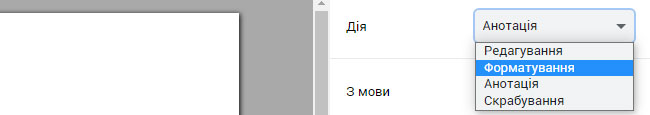
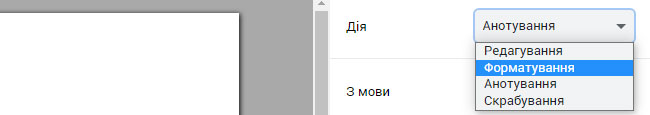
Finished Ukrainian user guide (issue #196). Fixed Ukrainian UI text.

Changed region(s): [[0.7692, 0.1826, 0.8615, 0.287], [0.7692, 0.6783, 0.8615, 0.7826], [0.8, 0.6261, 0.8308, 0.6522]]

diff --git a/_locales/uk/user-guide.html b/_locales/uk/user-guide.html
@@ -11,13 +11,13 @@
     <p><img src="https://raw.githubusercontent.com/chung-leong/conradish-x/development/doc/img/uk/capture-2.jpg" alt="Pop-up menu"></p>
     <p>Друкована версія відкриється в новій вкладці браузера:</p>
     <p><img src="https://raw.githubusercontent.com/chung-leong/conradish-x/development/doc/img/uk/document-1.jpg" alt="Print version"></p>
-    <h2>Коментуюча стаття</h2>
+    <h2>Анотування стаття</h2>
     <h3>Додавання визначення</h3>
-    <p>Виберіть термін, для якого потрібно дати визначення. Під ним з’явиться спливаюче меню. Виберіть <b>Додати визначення</b>:</p>
+    <p>Виберіть слово, для якого потрібно дати визначення. Під ним з’явиться спливаюче меню. Виберіть <b>Додати визначення</b>:</p>
     <p><img src="https://raw.githubusercontent.com/chung-leong/conradish-x/development/doc/img/uk/annotate-1.jpg" alt="Annotation menu"></p>
     <p>Якщо мова <b>На мову</b>, указана на бічній панелі, відрізняється від мови <b>З мови</b>, Конрадіш шукатиме визначення в Google Translate і автоматично вставлятиме його як виноску:</p>
     <p><img src="https://raw.githubusercontent.com/chung-leong/conradish-x/development/doc/img/uk/footnote-1.jpg" alt="Footnote"></p>
-    <p>Якщо мова <b>На мову</b> збігається з мовою <b>З мови</b> або вибрано «Жодну», вам потрібно буде ввести визначення самостійно.</p>
+    <p>Якщо мова <b>На мову</b> збігається з мовою <b>З мови</b> або вибрано «Жодну», вам потрібно буде ввести визначення самі.</p>
     <p><img src="https://raw.githubusercontent.com/chung-leong/conradish-x/development/doc/img/uk/footnote-2.jpg" alt="Footnote"></p>
     <p>Ви можете скасувати результат, натиснувши <b>Ctrl-Z</b> на клавіатурі.</p>
     <h3>Додавання перекладу/пояснення</h3>
@@ -26,10 +26,10 @@
     <p>Перекладене речення з’явиться у нижньому колонтитулі сторінки:</p>
     <p><img src="https://raw.githubusercontent.com/chung-leong/conradish-x/development/doc/img/uk/footnote-3.jpg" alt="Footnote"></p>
     <p>Функція <b>Додати переклад</b> відрізняється від <b>Додати визначення</b> лише тим, що вихідний текст пропускається у виносці.</p>
-    <p>І <b>Додати визначення</b>, і <b>Додати переклад</b> з'являться в меню, якщо вибрано більше ніж одне слово (але менше 8).</p>
+    <p>І <b>Додати визначення</b>, і <b>Додати переклад</b> з'являться в меню, якщо вибрано більше ніж одне слово (а менше 8).</p>
     <p>Натомість у меню з’явиться <b>Додати пояснення</b>, якщо переклад не відбудеться (мова <b>На мову</b> така сама, як мова <b>З мови</b>, або «Жодну» вибрано).</p>
-    <h3>Вибір альтернативного перекладу</h3>
-    <p>Щоб вибрати альтернативний переклад, клацніть частину визначення виноски та виберіть у спливаючому меню:</p>
+    <h3>Вибирання альтернативного перекладу</h3>
+    <p>Щоб вибрати альтернативний переклад, натисніть визначення виноски та виберіть у спливаючому меню:</p>
     <p><img src="https://raw.githubusercontent.com/chung-leong/conradish-x/development/doc/img/uk/footnote-5.jpg" alt="Footnote"></p>
     <h3>Видалення виносок</h3>
     <p>Щоб видалити виноску, просто видаліть відповідний номер виноски:</p>
@@ -37,7 +37,7 @@
     <p>Або видаліть виноску:</p>
     <p><img src="https://raw.githubusercontent.com/chung-leong/conradish-x/development/doc/img/uk/footnote-4.jpg" alt="Footnote"></p>
     <h2>Редагування статті</h2>
-    <p>Ви можете вносити зміни в статтю одночасно з анотацією. Однак спливаюче меню, яке з’являється щоразу, коли ви вибираєте текст, може відволікати увагу. Щоб вимкнути його, виберіть «Редагування» у спадному списку <b>Дія</b> на бічній панелі:</p>
+    <p>Ви можете вносити зміни в статтю одночасно з анотуванням. Однак спливаюче меню, яке з’являється щоразу, коли ви вибираєте текст, може відволікати увагу. Щоб вимкнути його, виберіть «Редагування» у спадному списку <b>Дія</b> на бічній панелі:</p>
     <p><img src="https://raw.githubusercontent.com/chung-leong/conradish-x/development/doc/img/uk/action-2.jpg" alt="Action drop-down"></p>
     <p>Натисніть кнопку <b>Закінчити</b>, щоб повернутися до режиму анотації.</p>
     <h2>Застосування стилю тексту</h2>
@@ -73,11 +73,11 @@
           <td>Закреслений</td>
         </tr>
         <tr>
-          <td><b>Ctrl-Shift-Minus</b></td>
+          <td><b>Ctrl-Shift--</b></td>
           <td>Нижній індекс</td>
         </tr>
         <tr>
-          <td><b>Ctrl-Shift-Equal</b></td>
+          <td><b>Ctrl-Shift-=</b></td>
           <td>Верхній індекс</td>
         </tr>
         <tr>
@@ -114,44 +114,44 @@
         </tr>
       </tbody>
     </table>
-    <h2>Пошук пропущеного тексту</h2>
+    <h2>Знаходження пропущеного тексту</h2>
     <p>За замовчуванням Конрадіш автоматично відфільтровує вміст, який вважає нерелевантним. Іноді в результаті імена авторів і дати можуть бути видалені. Щоб побачити, що було відфільтровано, виберіть «Скрабування» у спадному меню <b>Дія</b> на бічній панелі:</p>
     <p><img src="https://raw.githubusercontent.com/chung-leong/conradish-x/development/doc/img/uk/action-1.jpg" alt="Action drop-down"></p>
     <p>Початковий вигляд:</p>
     <p><img src="https://raw.githubusercontent.com/chung-leong/conradish-x/development/doc/img/filter-1.jpg" alt="Initial view"></p>
     <p>Після розкриття видаленого вмісту:</p>
     <p><img src="https://raw.githubusercontent.com/chung-leong/conradish-x/development/doc/img/filter-2.jpg" alt="Complete view"></p>
-    <p>Видалений вміст відображатиметься червоним кольором. Вміст, який Конрадіш вважає сумнівним (але вирішив залишити), пульсуватиме жовтим. Натисніть на червоний розділ, щоб відновити його. Натисніть на розділ, який не червоний, щоб приховати його. Завершивши, натисніть кнопку <b>Закінчити</b> або виберіть «Анотація» у спадному списку <b>Дія</b>.</p>
-    <p>Ви можете перемикатися між режимом скрабування та режимом анотації, натискаючи гарячу клавішу <b>Ctrl-Shift-H</b>.</p>
+    <p>Видалений вміст відображатиметься червоним кольором. Вміст, який Конрадіш вважає сумнівним (але вирішив залишити), пульсуватиме жовтим. Натисніть на червоний розділ, щоб відновити його. Натисніть на розділ, який не червоний, щоб приховати його. Завершивши, натисніть кнопку <b>Закінчити</b> або виберіть «Анотування» у спадному списку <b>Дія</b>.</p>
+    <p>Ви можете перемикатися між режимом скрабування та режимом анотування, натискаючи гарячу клавішу <b>Ctrl-Shift-H</b>.</p>
     <p>Щоб відновити всі видалені розділи, натисніть подвійну галочку в нижньому правому куті:</p>
     <p><img src="https://raw.githubusercontent.com/chung-leong/conradish-x/development/doc/img/uk/bk-button-1.jpg" alt="Keep all button"></p>
     <h2>Налаштування поведінки фільтра</h2>
-    <p>Налаштування фільтра Конрадіша визначає початковий режим, коли ви відкриваєте документ. Якщо для фільтрації встановлено автоматичне значення, редактор запускається в режимі анотацій із прихованими ймовірними смітниками. Якщо для фільтрації встановлено ручний режим, редактор запускається в режимі очищення, що дозволяє негайно виправити результати розширення. Коли фільтрування вимкнено, редактор запускається в режимі анотацій, у якому відображаються ймовірні непотрібні файли.</p>
-    <p>Залежно від веб-сайтів, які ви відвідуєте, один із цих параметрів виявиться зручнішим за інші. Якщо сайт надає таблицю стилів для друку, фільтрація зазвичай не потрібна. З іншого боку, якщо на сайті змішано багато реклами та відступів від основного тексту статті, або макет сторінки призводить до вибору навігаційних елементів, тоді доцільно залишати його включеним.</p>
+    <p>Налаштування фільтра Конрадіша визначає початковий режим, коли ви відкриваєте документ. Якщо фільтрацію встановлено на автоматичну, редактор запускається в режимі анотування із прихованими ймовірними смітниками. Якщо фільтрацію встановлено на ручну, редактор запускається в режимі очищення, що дозволяє негайно виправити результати розширення. Коли фільтрацію вимкнено, редактор запускається в режимі анотування, у якому відображаються ймовірні непотрібні файли.</p>
+    <p>Залежно від веб-сайтів, які ви відвідуєте, один із цих параметрів виявиться зручнішим за інші. Якщо сайт надає таблицю стилів для друку, фільтрація зазвичай не потрібна. З іншого боку, якщо на сайті змішано багато реклами з основним текстом статті, або макет сторінки призводить до вибору навігаційних елементів, тоді доцільно залишати його включеним.</p>
     <p>Щоб змінити налаштування фільтра, натисніть кнопку розширення Chrome на панелі інструментів, а потім кнопку з трьома крапками для Конрадіша. У меню виберіть <b>Параметри</b>:</p>
     <p><img src="https://raw.githubusercontent.com/chung-leong/conradish-x/development/doc/img/uk/extension-menu-1.jpg" alt="Extension menu"></p>
     <p>Сторінка параметрів Конрадіша відкриється в новій вкладці:</p>
     <p><img src="https://raw.githubusercontent.com/chung-leong/conradish-x/development/doc/img/uk/options-1.jpg" alt="Options"></p>
-    <h2>Дозвіл великих заголовків</h2>
+    <h2>дозволяння великих заголовків</h2>
     <p>За замовчуванням Конрадіш зменшує заголовки H1 у статтях до H2, розміру, який більше підходить для друкованої сторінки. Якщо ви бажаєте залишити їх як є, зніміть прапорець біля пункту <b>Обмеження розміру заголовків</b>.</p>
     <p><img src="https://raw.githubusercontent.com/chung-leong/conradish-x/development/doc/img/uk/options-2.jpg" alt="Options"></p>
-    <h2>Вибір додаткових шрифтів</h2>
-    <p>Щоб зробити доступними додаткові шрифти, натисніть <b>Шрифти</b> на бічній панелі, а потім назву відповідного шрифту (наприклад, арабська). Поставте прапорець біля шрифту, який ви хочете використовувати. Зніміть прапорець, якщо ви не хочете бачити його в списку. Ви можете знайти шрифт за допомогою вікна пошуку у верхній частині сторінки, якщо вам відома назва.</p>
+    <h2>Вибирання додаткових шрифтів</h2>
+    <p>Щоб зробити доступними додаткові шрифти, натисніть <b>Шрифти</b> на бічній панелі, а потім назву відповідного шрифту (наприклад, арабського). Поставте прапорець біля шрифту, який ви хочете використовувати. Зніміть прапорець, якщо ви не хочете бачити його в списку. Ви можете знайти шрифт за допомогою вікна пошуку у верхній частині сторінки, якщо вам відома назва.</p>
     <p><img src="https://raw.githubusercontent.com/chung-leong/conradish-x/development/doc/img/uk/options-3.jpg" alt="Options"></p>
-    <h2>Друк</h2>
+    <h2>Друкування документа</h2>
     <p>Щоб надрукувати, натисніть кнопку <b>Друк</b>. З’явиться вікно друку Chrome. Двічі перевірте, чи <b>Розмір паперу</b> відповідає встановленому в Конрадіші і що для параметра <b>Поля</b> встановлено значення «За замовчуванням». Документ не буде надруковано належним чином, якщо один із цих параметрів неправильний.</p>
     <p><img src="https://raw.githubusercontent.com/chung-leong/conradish-x/development/doc/img/uk/print-1.jpg" alt="Print window"></p>
-    <h2>Пошук документів</h2>
+    <h2>Знаходження документів</h2>
     <p>Щоб знайти документ, який ви створили раніше, активуйте спливаюче меню розширення та виберіть <b>Показати всі документи</b>:</p>
     <p><img src="https://raw.githubusercontent.com/chung-leong/conradish-x/development/doc/img/uk/pop-up-1.jpg" alt="Pop-up menu"></p>
     <p>Документи впорядковані за датами. Якщо ви пам’ятаєте певні ключові слова, ви можете звузити пошук, ввівши їх у вікно пошуку.</p>
     <p><img src="https://raw.githubusercontent.com/chung-leong/conradish-x/development/doc/img/uk/search-1.jpg" alt="Search results"></p>
-    <h2>Зміна назви документа</h2>
+    <h2>Змінювання назви документа</h2>
     <p>Щоб змінити назву документа, натисніть кнопку з трьома крапками поруч із назвою та виберіть <b>Змінити назву</b>:</p>
     <p><img src="https://raw.githubusercontent.com/chung-leong/conradish-x/development/doc/img/uk/change-title-1.jpg" alt="Kebab menu"></p>
     <p>Якщо ви зараз анотуєте документ, клацніть правою кнопкою миші на полі сторінки (або будь-якому іншому місці поза текстом) і виберіть <b>Змінити назву</b>:</p>
     <p><img src="https://raw.githubusercontent.com/chung-leong/conradish-x/development/doc/img/uk/change-title-2.jpg" alt="Context menu"></p>
-    <h2>Створення таблиць флексії</h2>
+    <h2>Створення таблиць словозміни</h2>
     <p>Для вибраних мов Конрадіш може створювати таблиці, що містять відмінювані форми слів у виносках. Щоб створити такий документ, активуйте спливаюче меню розширення та виберіть <b>Показати всі документи</b>:</p>
     <p><img src="https://raw.githubusercontent.com/chung-leong/conradish-x/development/doc/img/uk/pop-up-1.jpg" alt="Pop-up menu"></p>
     <p>Виберіть документи, з яких будуть взяті слова. Ви можете вибрати більше одного.</p>
@@ -194,7 +194,7 @@
       </tbody>
     </table>
     <h2>Копіювання статті в Microsoft Word</h2>
-    <p>Щоб скопіювати статтю до Microsoft Word, клацніть документ правою кнопкою миші та виберіть «Виділити все» (або натисніть <b>Ctrl-A</b>):</p>
+    <p>Щоб скопіювати статтю до Microsoft Word, клацніть документ правою кнопкою миші та виберіть «Вибрати все» (або натисніть <b>Ctrl-A</b>):</p>
     <p><img src="https://raw.githubusercontent.com/chung-leong/conradish-x/development/doc/img/uk/copy-paste-1.jpg" alt="Context menu"></p>
     <p>Ще раз клацніть правою кнопкою миші та виберіть «Копіювати» (або натисніть <b>Ctrl-C</b>):</p>
     <p><img src="https://raw.githubusercontent.com/chung-leong/conradish-x/development/doc/img/uk/copy-paste-2.jpg" alt="Context menu"></p>
